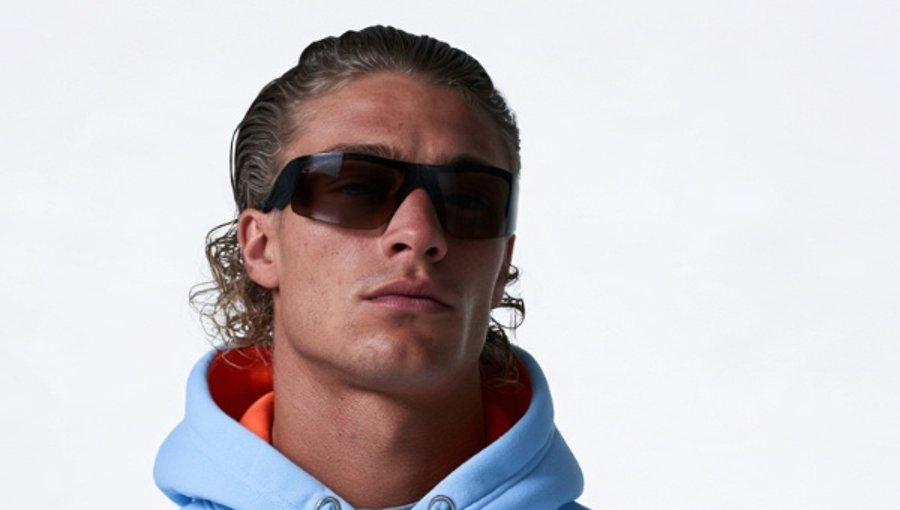
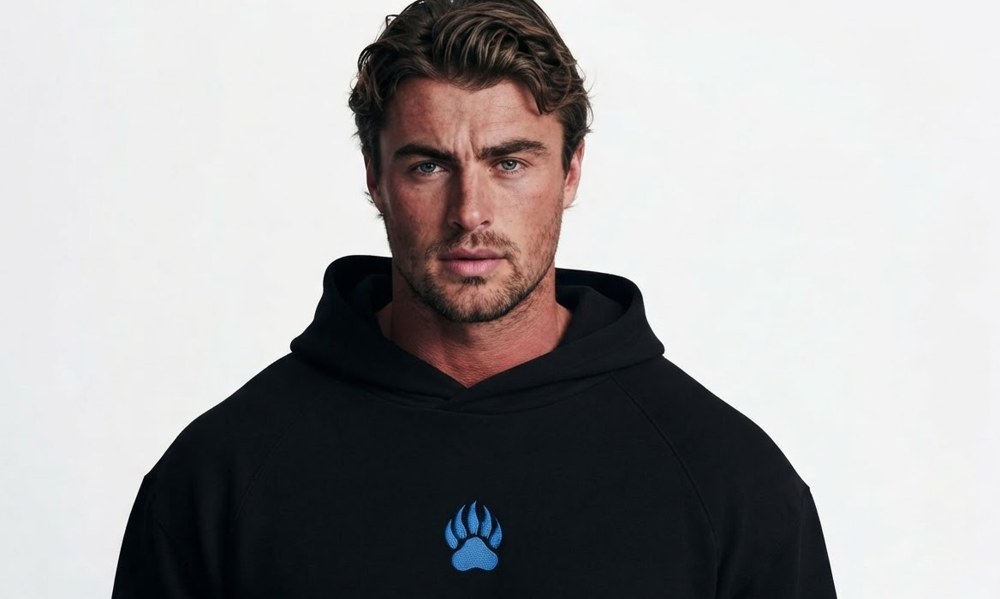
Use new photo for welcome popup showing face, hoodie and paw
Claude-Session: https://claude.ai/code/session_01WtkVJpWv49oULHSXpoRPMg

diff --git a/index.html b/index.html
@@ -529,7 +529,7 @@ body.sheet-open .fsheet{transform:none;visibility:visible}body.sheet-open .fshee
 .offbtn{all:unset;box-sizing:border-box;cursor:pointer;display:block;width:100%;height:50px;line-height:50px;border-radius:999px;text-align:center;font:600 15px/50px 'Inter',Helvetica,Arial,sans-serif;color:#fff;background:linear-gradient(135deg,#10388a,#a8541a);margin-top:4px}.offbtn:hover{filter:brightness(1.12)}.offbtn:disabled{opacity:.6}
 .offerr{color:#e58b6a !important;font-size:13px !important;min-height:0}.offerr:empty{display:none}
 .codebox{display:flex;align-items:center;justify-content:space-between;gap:10px;margin:6px 0 16px;padding:10px 10px 10px 22px;border-radius:999px;border:.5px dashed rgba(255,255,255,.32);background:rgba(255,255,255,.05)}.codebox span{font-size:26px;font-weight:700;letter-spacing:.12em}.codebox button{all:unset;cursor:pointer;height:40px;padding:0 20px;line-height:40px;border-radius:999px;background:rgba(255,255,255,.12);font:600 13px/40px 'Inter',sans-serif;color:#fff}.codebox button:hover{background:rgba(255,255,255,.2)}
-.offer-card{overflow:hidden}.offer-img{margin:-38px -30px 26px;height:200px;background:#111}.offer-img img{width:100%;height:100%;object-fit:cover;display:block}.offer-x{z-index:2;background:rgba(0,0,0,.45);-webkit-backdrop-filter:blur(6px);backdrop-filter:blur(6px);color:#fff}</style>
+.offer-card{overflow:hidden}.offer-img{margin:-38px -30px 22px;height:250px;background:#111}.offer-img img{width:100%;height:100%;object-fit:cover;display:block}.offer-x{z-index:2;background:rgba(0,0,0,.45);-webkit-backdrop-filter:blur(6px);backdrop-filter:blur(6px);color:#fff}</style>
 </head>
 <body><div id="ld"><div class="box"><div class="fr"><img id="ldim" alt=""></div><div class="brand">HØNTÉRX</div><div class="pct" id="ldpc">000</div><div class="bar"><i id="ldbr"></i></div></div></div>
 
@@ -653,7 +653,7 @@ const COLORS = {
   charcoalm:['Charcoal Melange','#4a4a50','#35353a']
 };
 const SIZES = ['S','M','L','XL','XXL'];
-window.PROMO_IMAGES = ['img/promo-1.webp','img/promo-2.webp','img/promo-3.webp','img/promo-4.webp'];
+window.PROMO_IMAGES = ['img/promo-1.webp','img/promo-2.webp','img/promo-3.webp'];
 const PRODUCTS = [
   {id:'t2',cat:'honterx',name:"Ember Paw II Oversized Tee",price:45,colors:['white'],kind:'tee',imgs:["img/p/t2-back.webp", "img/p/t2-front.webp", "img/p/t2-left.webp", "img/p/t2-right.webp"],desc:"Oversized, high-neck organic cotton tee with a small paw print on the chest."},
   {id:'t4',cat:'honterx',name:"Wild Paw Oversized Tee",price:45,colors:['white'],kind:'tee',imgs:["img/p/t4-back.webp", "img/p/t4-front.webp", "img/p/t4-left.webp", "img/p/t4-right.webp"],desc:"Oversized, high-neck organic cotton tee with a small paw print on the chest."},
